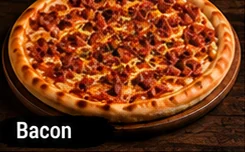
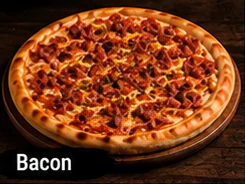
Corrige modal sem foto, acessibilidade, busca e enquadramento das fotos apos revisao
Claude-Session: https://claude.ai/code/session_01BqpUfHv7VNGQYSG94pEuhW

diff --git a/css/styles.css b/css/styles.css
@@ -1,11 +1,14 @@
 /* MKS Pizzaria — estilos. Paleta extraída do cardápio da marca (vermelho profundo, dourado, fundo escuro). */
 :root{
-  --bg:#150b09; --bg2:#1f1210; --card:#241513; --line:#3a2420;
+  --bg:#150b09; --bg2:#1f1210; --card:#241513; --line:#3a2420; --line2:#7a564c; --header-h:64px;
   --red:#a00000; --red2:#c41d12; --gold:#f4c04a; --gold2:#e8a62a; --cream:#f6ead8; --muted:#bfa994;
   --radius:18px; --head:"Fraunces",Georgia,serif; --body:"Inter",system-ui,-apple-system,"Segoe UI",sans-serif;
 }
 *{box-sizing:border-box}
-html{scroll-behavior:smooth;scroll-padding-top:72px}
+html{scroll-behavior:smooth;scroll-padding-top:calc(var(--header-h) + 8px)}
+[hidden]{display:none!important}
+body:has(dialog[open]){overflow:hidden}
+.noscript{padding:6rem 1rem 1rem;text-align:center}
 body{margin:0;background:var(--bg);color:var(--cream);font:400 1rem/1.6 var(--body);-webkit-font-smoothing:antialiased;overflow-x:hidden}
 img{max-width:100%;display:block}
 a{color:inherit}
@@ -28,16 +31,16 @@ h2{font-size:clamp(1.9rem,4.5vw,3rem)}
 .btn-gold{background:linear-gradient(180deg,var(--gold),var(--gold2));color:#2a1204;box-shadow:0 8px 24px -8px rgba(244,192,74,.6)}
 .btn-ghost{border-color:var(--gold);color:var(--gold);background:transparent}
 .btn-ghost:hover{background:rgba(244,192,74,.12)}
-.btn-sm{min-height:40px;padding:.4rem 1.1rem;font-size:.9rem}
+.btn-sm{min-height:44px;padding:.4rem 1.1rem;font-size:.9rem}
 .btn-lg{min-height:58px;padding:1rem 2.4rem;font-size:1.15rem}
 
 /* topo */
 .topbar{position:fixed;inset:0 0 auto 0;z-index:50;display:flex;align-items:center;justify-content:space-between;padding:.7rem 1rem;transition:background .3s,box-shadow .3s}
 .topbar.solid{background:rgba(21,11,9,.92);backdrop-filter:blur(10px);box-shadow:0 1px 0 var(--line)}
-.brand{display:flex;align-items:center;gap:.5rem;text-decoration:none;font-family:var(--head);font-weight:900;font-size:1.25rem}
+.brand{min-height:44px;display:flex;align-items:center;gap:.5rem;text-decoration:none;font-family:var(--head);font-weight:900;font-size:1.25rem}
 .brand-mark{background:var(--red);color:var(--gold);padding:.15rem .55rem;border-radius:8px;letter-spacing:.06em;font-family:var(--head);font-weight:900}
 .nav{display:flex;align-items:center;gap:1.4rem}
-.nav a:not(.btn){text-decoration:none;font-weight:500;color:var(--cream);opacity:.85}
+.nav a:not(.btn){display:inline-flex;align-items:center;min-height:44px;text-decoration:none;font-weight:500;color:var(--cream);opacity:.85}
 .nav a:not(.btn):hover{opacity:1;color:var(--gold)}
 .menu-toggle{display:none;background:none;border:0;width:48px;height:48px;padding:12px;cursor:pointer}
 .menu-toggle span{display:block;height:3px;background:var(--cream);margin:5px 0;border-radius:2px;transition:.25s}
@@ -62,7 +65,7 @@ h2{font-size:clamp(1.9rem,4.5vw,3rem)}
 .build{height:560vh;position:relative;background:var(--bg2)}
 .build-sticky{position:sticky;top:0;height:100svh;display:grid;grid-template-columns:1fr 1fr;align-items:center;gap:2rem;padding:4.5rem max(1rem,calc((100% - 1140px)/2)) 1.5rem}
 .steps{list-style:none;margin:1.2rem 0;padding:0;display:grid;gap:.5rem}
-.steps li{display:grid;opacity:.28;transform:translateX(-6px);transition:opacity .35s,transform .35s;padding-left:1.1rem;border-left:3px solid var(--line)}
+.steps li{display:grid;opacity:.62;transform:translateX(-6px);transition:opacity .35s,transform .35s;padding-left:1.1rem;border-left:3px solid var(--line)}
 .steps li strong{font-family:var(--head);font-size:1.2rem}
 .steps li span{font-size:.92rem;color:var(--muted)}
 .steps li.on{opacity:1;transform:none;border-color:var(--gold)}
@@ -74,33 +77,33 @@ h2{font-size:clamp(1.9rem,4.5vw,3rem)}
 /* seções */
 .section{padding:5rem 0}
 .feature-grid{display:grid;grid-template-columns:repeat(auto-fit,minmax(240px,1fr));gap:1rem;margin-top:1.5rem}
-.card{background:var(--card);border:1px solid var(--line);border-radius:var(--radius);overflow:hidden;display:flex;flex-direction:column;text-align:left;color:inherit;font:inherit;padding:0;cursor:pointer;transition:transform .25s,border-color .25s,box-shadow .25s}
+.card{scroll-margin-top:150px;background:var(--card);border:1px solid var(--line);border-radius:var(--radius);overflow:hidden;display:flex;flex-direction:column;text-align:left;color:inherit;font:inherit;padding:0;cursor:pointer;transition:transform .25s,border-color .25s,box-shadow .25s}
 .card:hover{transform:translateY(-4px);border-color:var(--gold);box-shadow:0 18px 36px -18px #000}
 .card-img{aspect-ratio:4/3;background:#0f0706;display:flex;align-items:center;justify-content:center;overflow:hidden}
-.card-img img{width:100%;height:100%;object-fit:cover}
+.card-img img{width:100%;height:100%;object-fit:contain}
 .card-img.ph{background:radial-gradient(circle at 50% 55%,#5a0d09,#2a0b08);color:var(--gold);font-family:var(--head);font-size:2.4rem;font-weight:900;opacity:.9}
 .card-body{padding:1rem 1.1rem 1.2rem;display:grid;gap:.35rem;flex:1}
-.card-body h3{font-size:1.15rem;margin:0}
-.card-body p{margin:0;font-size:.88rem;color:var(--muted)}
+.card-title{font-family:var(--head);font-weight:900;font-size:1.15rem;line-height:1.2}
+.card-desc{font-size:.88rem;color:var(--muted)}
 .card-foot{margin-top:auto;padding-top:.6rem;display:flex;justify-content:space-between;align-items:center;font-size:.85rem}
 .price{color:var(--gold);font-weight:700;font-size:1.1rem}
 .no-price{color:var(--muted);font-weight:500;font-size:.8rem}
 .more{color:var(--gold);font-weight:600}
 
 .menu{background:linear-gradient(180deg,var(--bg),#1a0c0a)}
-.menu-tools{display:flex;flex-wrap:wrap;gap:1rem;align-items:center;justify-content:space-between;margin:1.2rem 0 .8rem;position:sticky;top:62px;z-index:10;background:rgba(21,11,9,.94);backdrop-filter:blur(8px);padding:.6rem 0}
-.chips{display:flex;gap:.5rem;overflow-x:auto;scrollbar-width:none;max-width:100%;padding-bottom:2px}
+.menu-tools{display:flex;flex-wrap:wrap;gap:1rem;align-items:center;justify-content:space-between;margin:1.2rem 0 .8rem;position:sticky;top:var(--header-h);z-index:10;background:rgba(21,11,9,.94);backdrop-filter:blur(8px);padding:.6rem 0}
+.chips{display:flex;gap:.5rem;overflow-x:auto;scrollbar-width:none;max-width:100%;padding:6px;margin:-6px}
 .chips::-webkit-scrollbar{display:none}
-.chip{flex:none;min-height:44px;padding:.4rem 1.1rem;border-radius:999px;border:1.5px solid var(--line);background:transparent;color:var(--cream);font:600 .9rem var(--body);cursor:pointer}
-.chip[aria-selected=true]{background:var(--red);border-color:var(--red2);color:#fff}
-.search input{min-height:46px;width:min(320px,100%);border-radius:999px;border:1.5px solid var(--line);background:var(--card);color:var(--cream);padding:.5rem 1.1rem;font:inherit}
+.chip{flex:none;min-height:44px;padding:.4rem 1.1rem;border-radius:999px;border:1.5px solid var(--line2);background:transparent;color:var(--cream);font:600 .9rem var(--body);cursor:pointer}
+.chip[aria-pressed=true]{background:var(--red);border-color:var(--red2);color:#fff}
+.search input{min-height:46px;width:min(320px,100%);border-radius:999px;border:1.5px solid var(--line2);background:var(--card);color:var(--cream);padding:.5rem 1.1rem;font:inherit}
 .search input:focus{border-color:var(--gold);outline:none}
 .menu-note{color:var(--muted);font-size:.85rem;min-height:1.4em}
 .menu-grid{display:grid;grid-template-columns:repeat(auto-fill,minmax(250px,1fr));gap:1rem}
 .empty{text-align:center;color:var(--muted)}
 
 .gallery-grid{display:grid;grid-template-columns:repeat(auto-fill,minmax(170px,1fr));gap:.6rem;margin-top:1.5rem}
-.gallery-grid img{width:100%;aspect-ratio:4/3;object-fit:cover;border-radius:12px;transition:transform .3s}
+.gallery-grid img{width:100%;aspect-ratio:4/3;object-fit:contain;background:#0f0706;border-radius:12px;transition:transform .3s}
 .gallery-grid img:hover{transform:scale(1.04)}
 
 .about{background:var(--bg2)}
@@ -115,15 +118,17 @@ h2{font-size:clamp(1.9rem,4.5vw,3rem)}
 .footer{background:#0e0605;padding:3rem 0 1.5rem;border-top:1px solid var(--line)}
 .footer-grid{display:flex;flex-wrap:wrap;gap:2rem;justify-content:space-between}
 .footer nav{display:grid;gap:.2rem}
-.footer nav a{text-decoration:none;color:var(--muted);min-height:36px;display:flex;align-items:center}
+.footer nav a{text-decoration:none;color:var(--muted);min-height:44px;display:flex;align-items:center}
 .footer nav a:hover{color:var(--gold)}
 .copy{text-align:center;color:var(--muted);font-size:.8rem;margin:2rem 1rem 0}
 
 /* modal */
-dialog{border:1px solid var(--line);border-radius:22px;background:var(--card);color:var(--cream);padding:0;width:min(720px,calc(100% - 1.5rem));max-height:92svh;overflow:auto}
+dialog{overscroll-behavior:contain;border:1px solid var(--line);border-radius:22px;background:var(--card);color:var(--cream);padding:0;width:min(720px,calc(100% - 1.5rem));max-height:92svh;overflow:auto}
 dialog::backdrop{background:rgba(0,0,0,.75);backdrop-filter:blur(3px)}
-.modal-close{position:absolute;right:.6rem;top:.6rem;width:44px;height:44px;border-radius:50%;border:0;background:rgba(0,0,0,.6);color:#fff;font-size:1.6rem;cursor:pointer;z-index:2}
+.modal-close{position:sticky;float:right;top:.6rem;margin:.6rem .6rem -3.4rem 0;width:44px;height:44px;border-radius:50%;border:0;background:rgba(0,0,0,.6);color:#fff;font-size:1.6rem;cursor:pointer;z-index:2}
 .modal-body{display:grid;grid-template-columns:1fr 1.1fr}
+dialog.no-img .modal-body{grid-template-columns:1fr}
+.modal-body img{max-height:60svh}
 .modal-body img{width:100%;height:100%;min-height:220px;object-fit:contain;background:#0f0706}
 .modal-info{padding:1.6rem;display:grid;gap:.6rem;align-content:start}
 .modal-info h3{font-size:1.7rem;margin:0}
@@ -133,8 +138,8 @@ dialog::backdrop{background:rgba(0,0,0,.75);backdrop-filter:blur(3px)}
 /* responsivo */
 @media (max-width:860px){
   .menu-toggle{display:block}
-  .nav{position:fixed;inset:0 0 auto 0;top:62px;flex-direction:column;align-items:stretch;gap:0;background:rgba(21,11,9,.98);padding:.5rem 1rem 1.2rem;transform:translateY(-130%);transition:transform .3s;border-bottom:1px solid var(--line)}
-  .nav.open{transform:none}
+  .nav{visibility:hidden;position:fixed;inset:0 0 auto 0;top:var(--header-h);flex-direction:column;align-items:stretch;gap:0;background:rgba(21,11,9,.98);padding:.5rem 1rem 1.2rem;transform:translateY(-130%);transition:transform .3s,visibility 0s .3s;border-bottom:1px solid var(--line)}
+  .nav.open{transform:none;visibility:visible;transition-delay:0s}
   .nav a:not(.btn){padding:.9rem .2rem;border-bottom:1px solid var(--line);min-height:48px}
   .nav-cta{margin-top:.8rem}
   .hero{grid-template-columns:1fr;padding-top:5.5rem;text-align:left;min-height:auto}
@@ -150,7 +155,8 @@ dialog::backdrop{background:rgba(0,0,0,.75);backdrop-filter:blur(3px)}
   .about-grid,.modal-body{grid-template-columns:1fr}
   .modal-body img{min-height:0;aspect-ratio:4/3;height:auto}
   .section{padding:3.5rem 0}
-  .menu-tools{top:56px}
+  :root{--header-h:71px}
+  .build-sticky{padding-top:4.8rem}
 }
 @media (prefers-reduced-motion:reduce){
   html{scroll-behavior:auto}

diff --git a/js/main.js b/js/main.js
@@ -3,6 +3,7 @@
   const M = window.MKS_MENU;
   const $ = (s, r = document) => r.querySelector(s);
   const brl = (n) => "R$ " + n.toFixed(2).replace(".", ",");
+  const esc = (s) => String(s).replace(/[&<>"']/g, (c) => ({ "&": "&amp;", "<": "&lt;", ">": "&gt;", '"': "&quot;", "'": "&#39;" }[c]));
 
   // Garante que todo botão de pedido aponte para o cardápio oficial definido em data/menu.js
   if (M) document.querySelectorAll("[data-order]").forEach((a) => (a.href = M.orderUrl));
@@ -19,7 +20,14 @@
   };
   toggle.addEventListener("click", () => setNav(!nav.classList.contains("open")));
   nav.addEventListener("click", (e) => { if (e.target.closest("a")) setNav(false); });
-  document.addEventListener("keydown", (e) => { if (e.key === "Escape") setNav(false); });
+  document.addEventListener("click", (e) => { if (nav.classList.contains("open") && !e.target.closest("#nav, #menuToggle")) setNav(false); });
+  document.addEventListener("keydown", (e) => {
+    if (e.key !== "Escape" || !nav.classList.contains("open")) return;
+    const inside = nav.contains(document.activeElement);
+    setNav(false);
+    if (inside) toggle.focus();
+  });
+  window.matchMedia("(min-width: 861px)").addEventListener("change", (e) => { if (e.matches) setNav(false); });
 
   if (!M || !Array.isArray(M.items)) {
     $("#menuGrid").innerHTML = '<p class="empty">Não foi possível carregar o cardápio. Use o botão "Ver cardápio completo e pedir".</p>';
@@ -38,34 +46,38 @@
   let current = "all", query = "";
   const norm = (s) => (s || "").normalize("NFD").replace(/[̀-ͯ]/g, "").toLowerCase();
 
-  function cardHTML(i, idx) {
+  function cardHTML(i) {
     const img = i.image
-      ? `<div class="card-img"><img src="${i.image}" alt="${i.name}" width="245" height="180" loading="lazy"></div>`
-      : `<div class="card-img ph" aria-hidden="true">${i.name.charAt(0)}</div>`;
+      ? `<span class="card-img"><img src="${esc(i.image)}" alt="" width="245" height="180" loading="lazy"></span>`
+      : `<span class="card-img ph" aria-hidden="true">${esc(i.name.charAt(0))}</span>`;
     const price = typeof i.price === "number" ? `<span class="price">${brl(i.price)}</span>` : `<span class="no-price">Consulte o valor</span>`;
-    return `<button class="card" type="button" data-id="${i.id}" aria-label="${i.name}, ver detalhes">${img}
-      <span class="card-body"><h3>${i.name}</h3>${i.desc ? `<p>${i.desc}</p>` : ""}
+    return `<button class="card" type="button" data-id="${esc(i.id)}">${img}
+      <span class="card-body"><span class="card-title">${esc(i.name)}</span>${i.desc ? `<span class="card-desc">${esc(i.desc)}</span>` : ""}
       <span class="card-foot">${price}<span class="more">Detalhes →</span></span></span></button>`;
   }
 
   function renderMenu() {
-    const q = norm(query);
-    const list = M.items.filter((i) => (current === "all" || i.category === current) && (!q || norm(i.name + " " + (i.desc || "")).includes(q)));
+    const terms = norm(query).trim().split(/\s+/).filter(Boolean);
+    const list = M.items.filter((i) => {
+      if (current !== "all" && i.category !== current) return false;
+      const text = norm(i.name + " " + (i.desc || ""));
+      return terms.every((t) => text.includes(t));
+    });
     $("#menuGrid").innerHTML = list.map(cardHTML).join("");
     $("#empty").hidden = list.length > 0;
-    const noPrice = list.some((i) => i.price == null);
-    $("#menuNote").textContent = noPrice
+    $("#menuStatus").textContent = list.length ? `${list.length} ${list.length === 1 ? "item encontrado" : "itens encontrados"}` : "Nenhum item encontrado";
+    $("#menuNote").textContent = list.some((i) => i.price == null)
       ? "Os valores das pizzas e seus tamanhos estão no cardápio oficial; use o botão de pedido para ver e escolher."
       : "";
   }
 
   const chips = $("#chips");
   chips.innerHTML = [{ id: "all", label: "Todos" }, ...M.categories]
-    .map((c) => `<button class="chip" role="tab" type="button" data-cat="${c.id}" aria-selected="${c.id === "all"}">${c.label}</button>`).join("");
+    .map((c) => `<button class="chip" type="button" data-cat="${esc(c.id)}" aria-pressed="${c.id === "all"}">${esc(c.label)}</button>`).join("");
   chips.addEventListener("click", (e) => {
     const b = e.target.closest(".chip"); if (!b) return;
     current = b.dataset.cat;
-    chips.querySelectorAll(".chip").forEach((x) => x.setAttribute("aria-selected", x === b));
+    chips.querySelectorAll(".chip").forEach((x) => x.setAttribute("aria-pressed", x === b));
     renderMenu();
   });
   $("#search").addEventListener("input", (e) => { query = e.target.value; renderMenu(); });
@@ -75,15 +87,16 @@
   $("#featureGrid").innerHTML = featured.map((id) => M.items.find((i) => i.id === id)).filter(Boolean).map(cardHTML).join("");
 
   // ---- detalhe ----
-  const modal = $("#modal");
+  const modal = $("#modal"), mImg = $("#mImg");
   function openItem(id) {
     const i = M.items.find((x) => x.id === id); if (!i) return;
     $("#mTitle").textContent = i.name;
     $("#mCat").textContent = catLabel[i.category] || "";
     $("#mDesc").textContent = i.desc || "";
     $("#mPrice").textContent = typeof i.price === "number" ? brl(i.price) : "";
-    const img = $("#mImg");
-    if (i.image) { img.src = i.image; img.alt = i.name; img.hidden = false; } else img.hidden = true;
+    modal.classList.toggle("no-img", !i.image);
+    if (i.image) { mImg.src = i.image; mImg.alt = i.name; mImg.hidden = false; }
+    else { mImg.removeAttribute("src"); mImg.alt = ""; mImg.hidden = true; }
     $("#mFine").textContent = typeof i.price === "number"
       ? "Pedido e pagamento são feitos no cardápio oficial."
       : "Valor e tamanhos disponíveis no cardápio oficial. Pedido e pagamento são feitos lá.";
@@ -92,11 +105,16 @@
   const closeModal = () => (modal.close ? modal.close() : modal.removeAttribute("open"));
   document.addEventListener("click", (e) => { const c = e.target.closest(".card[data-id]"); if (c) openItem(c.dataset.id); });
   $("#modalClose").addEventListener("click", closeModal);
-  $("#mBack").addEventListener("click", () => { closeModal(); $("#cardapio").scrollIntoView(); });
+  $("#mBack").addEventListener("click", () => {
+    closeModal();
+    const target = chips.querySelector('.chip[aria-pressed="true"]') || $("#search");
+    target.focus({ preventScroll: true });
+    $("#cardapio").scrollIntoView();
+  });
   modal.addEventListener("click", (e) => { if (e.target === modal) closeModal(); });
 
   // ---- galeria ----
-  $("#galleryGrid").innerHTML = M.gallery.map((g) => `<img src="${g.image}" alt="Pizza ${g.name} da MKS" width="245" height="180" loading="lazy">`).join("");
+  $("#galleryGrid").innerHTML = M.gallery.map((g) => `<img src="${esc(g.image)}" alt="Pizza ${esc(g.name)} da MKS" width="245" height="180" loading="lazy">`).join("");
 
   renderMenu();
 })();

diff --git a/index.html b/index.html
@@ -37,6 +37,7 @@
   </header>
 
   <main id="inicio">
+    <noscript><p class="noscript">Ative o JavaScript para ver o cardápio aqui, ou <a data-order href="https://pedir.delivery/app/mkspizzaria/menu">acesse o cardápio oficial</a>.</p></noscript>
     <!-- HERO -->
     <section class="hero">
       <div class="hero-text">
@@ -53,9 +54,9 @@
         </a>
       </div>
       <div class="hero-visual" aria-hidden="false">
-        <img class="hp hp1" src="images/hero/calabresa.webp" alt="Pizza de calabresa da MKS" width="530" height="308" fetchpriority="high">
-        <img class="hp hp2" src="images/hero/portuguesa.webp" alt="Pizza portuguesa da MKS" width="530" height="308">
-        <img class="hp hp3" src="images/hero/marguerita.webp" alt="Pizza marguerita da MKS" width="530" height="308">
+        <img class="hp hp1" src="images/hero/calabresa.webp" alt="Pizza de calabresa da MKS" width="536" height="328" fetchpriority="high">
+        <img class="hp hp2" src="images/hero/portuguesa.webp" alt="Pizza portuguesa da MKS" width="536" height="328">
+        <img class="hp hp3" src="images/hero/marguerita.webp" alt="Pizza marguerita da MKS" width="536" height="328">
       </div>
     </section>
 
@@ -97,13 +98,14 @@
         <p class="eyebrow">Cardápio</p>
         <h2 id="menu-title">Escolha o seu</h2>
         <div class="menu-tools">
-          <div class="chips" id="chips" role="tablist" aria-label="Categorias"></div>
+          <div class="chips" id="chips" role="group" aria-label="Categorias do cardápio"></div>
           <label class="search"><span class="sr">Buscar no cardápio</span>
             <input type="search" id="search" placeholder="Buscar sabor ou ingrediente…" autocomplete="off">
           </label>
         </div>
         <p class="menu-note" id="menuNote"></p>
-        <div class="menu-grid" id="menuGrid" aria-live="polite"></div>
+        <p class="sr" id="menuStatus" role="status"></p>
+        <div class="menu-grid" id="menuGrid"></div>
         <p class="empty" id="empty" hidden>Nenhum item encontrado. Tente outra busca.</p>
         <div class="center">
           <a class="btn btn-gold" data-order href="https://pedir.delivery/app/mkspizzaria/menu" target="_blank" rel="noopener">Ver cardápio completo e pedir</a>

diff --git a/js/pizza.js b/js/pizza.js
@@ -11,6 +11,14 @@
   const stepEls = document.querySelectorAll("#buildSteps li");
   if (!section || !svg) return;
 
+  // Movimento reduzido: o CSS transforma a secao em lista estatica com a foto final; nada de animar.
+  if (window.matchMedia("(prefers-reduced-motion: reduce)").matches) {
+    stepEls.forEach((li) => li.classList.add("on"));
+    const stage = document.getElementById("buildStage");
+    if (stage) stage.setAttribute("aria-label", "Pizza de calabresa da MKS, pronta");
+    return;
+  }
+
   const NS = "http://www.w3.org/2000/svg";
   const el = (name, attrs = {}, parent = svg) => {
     const n = document.createElementNS(NS, name);

diff --git a/tools/prepare_images.py b/tools/prepare_images.py
@@ -17,7 +17,7 @@ pizzas = Image.open(ROOT / "tools/src_pizzas.png").convert("RGB")
 mix = Image.open(ROOT / "tools/src_mix.png").convert("RGB")
 
 COLS = [0, 251, 502, 753, 1004, 1254]
-ROWS = [(98, 250), (254, 438), (442, 626), (630, 814), (892, 1048), (1052, 1238)]
+ROWS = [(66, 250), (254, 438), (442, 626), (630, 814), (897, 1048), (1052, 1238)]
 PIZZA_NAMES = [
     ["americana", "atum", "bacon", "calabresa", "frango"],
     ["4-queijos", "presunto", "portuguesa", "marguerita", "milho"],
@@ -32,29 +32,49 @@ def save(img, path):
     img.save(path, "WEBP", quality=86, method=6)
 
 
+# O titulo "TRADICIONAIS" invade o topo da Americana: cobre o texto com um trecho limpo do fundo ao lado
+# (espelhado para nao deixar emenda), sem tocar na pizza.
+def _cover(box, src_box):
+    x0, y0, x1, y1 = box
+    tile = pizzas.crop(src_box)
+    mirrored = Image.new("RGB", (tile.width * 2, tile.height))
+    mirrored.paste(tile, (0, 0))
+    mirrored.paste(tile.transpose(Image.FLIP_LEFT_RIGHT), (tile.width, 0))
+    out = Image.new("RGB", (x1 - x0, y1 - y0))
+    for x in range(0, out.width, mirrored.width):
+        out.paste(mirrored.resize((mirrored.width, out.height), Image.BILINEAR), (x, 0))
+    pizzas.paste(out, (x0, y0))
+
+
+_cover((30, 64, 190, 93), (192, 64, 240, 93))
+_cover((36, 93, 86, 103), (192, 90, 240, 96))
+
 for r, names in enumerate(PIZZA_NAMES):
     y0, y1 = ROWS[r]
     for c, name in enumerate(names):
         save(pizzas.crop((COLS[c] + 3, y0, COLS[c + 1] - 3, y1)), OUT / f"pizza-{name}.webp")
 
+# Americana: corta o topo (restos do titulo) logo acima da borda da pizza.
+save(pizzas.crop((COLS[0] + 3, 84, COLS[1] - 3, 250)), OUT / "pizza-americana.webp")
+
 burgers = {
-    "x-burguer": (30, 64, 285, 245),
-    "x-salada": (330, 48, 615, 245),
-    "x-bacon": (640, 48, 930, 245),
-    "x-frango": (960, 48, 1245, 245),
+    "x-burguer": (30, 68, 285, 245),
+    "x-salada": (330, 72, 615, 245),
+    "x-bacon": (640, 42, 930, 245),
+    "x-frango": (960, 42, 1245, 245),
     "x-egg": (130, 252, 420, 456),
-    "x-tudo": (480, 244, 770, 456),
+    "x-tudo": (480, 238, 770, 456),
     "x-calabresa": (815, 252, 1115, 456),
 }
 for name, box in burgers.items():
     save(mix.crop(box), OUT / f"{name}.webp")
 
 portions = {
-    "batata-frita": 10, "batata-com-bacon": 262, "batata-com-cheddar-e-bacon": 515,
-    "batata-com-queijo": 762, "batata-cheddar": 1005,
+    "batata-frita": (8, 266), "batata-com-bacon": (274, 515), "batata-com-cheddar-e-bacon": (523, 749),
+    "batata-com-queijo": (758, 991), "batata-cheddar": (1002, 1248),
 }
-for name, x in portions.items():
-    save(mix.crop((x, 516, x + 245, 697)), OUT / f"{name}.webp")
+for name, (x0, x1) in portions.items():
+    save(mix.crop((x0, 523, x1, 697)), OUT / f"{name}.webp")
 
 
 def cutout(src, cx, cy, rx, ry, name):
@@ -71,4 +91,3 @@ def cutout(src, cx, cy, rx, ry, name):
 cutout(pizzas, 880, 142, 120, 68, "calabresa")
 cutout(pizzas, 878, 332, 120, 68, "marguerita")
 cutout(pizzas, 630, 332, 120, 68, "portuguesa")
-cutout(pizzas, 380, 515, 120, 68, "vegetariana")

diff --git a/README.md b/README.md
@@ -44,6 +44,9 @@ Qualquer hospedagem estática serve (GitHub Pages, Netlify, Vercel, Cloudflare P
 - Grafia "cheedar" nas capturas foi padronizada para "cheddar". Na pizza 4 Queijos a descrição não lista mussarela; mantido como está.
 - Nas fotos, "Frango", "Moda da Casa" e "Especial da Casa" não têm correspondente exato no texto do cardápio.
 
+## Verificação
+A transcrição do cardápio foi conferida de forma independente contra as imagens enviadas: 50 pizzas, 7 hambúrgueres e 5 porções com nomes, ingredientes e preços batendo (divergências só de pontuação/grafia normalizadas). O código foi testado no Chromium (390 px e 1280 px, teclado, busca, modal, movimento reduzido); os problemas encontrados (modal exibindo foto do item anterior, menu mobile focável quando fechado, alvos de toque, busca com espaços, enquadramento de fotos etc.) foram corrigidos.
+
 ## Pedidos
 Todos os botões "Fazer pedido / Pedir agora / Ver cardápio completo" abrem `https://pedir.delivery/app/mkspizzaria/menu` (definido em `data/menu.js` → `orderUrl`). **Não há carrinho, pagamento nem envio de pedido no site**; isso acontece somente na plataforma oficial. Não investiguei integração oficial por não ter acesso à plataforma.
 
